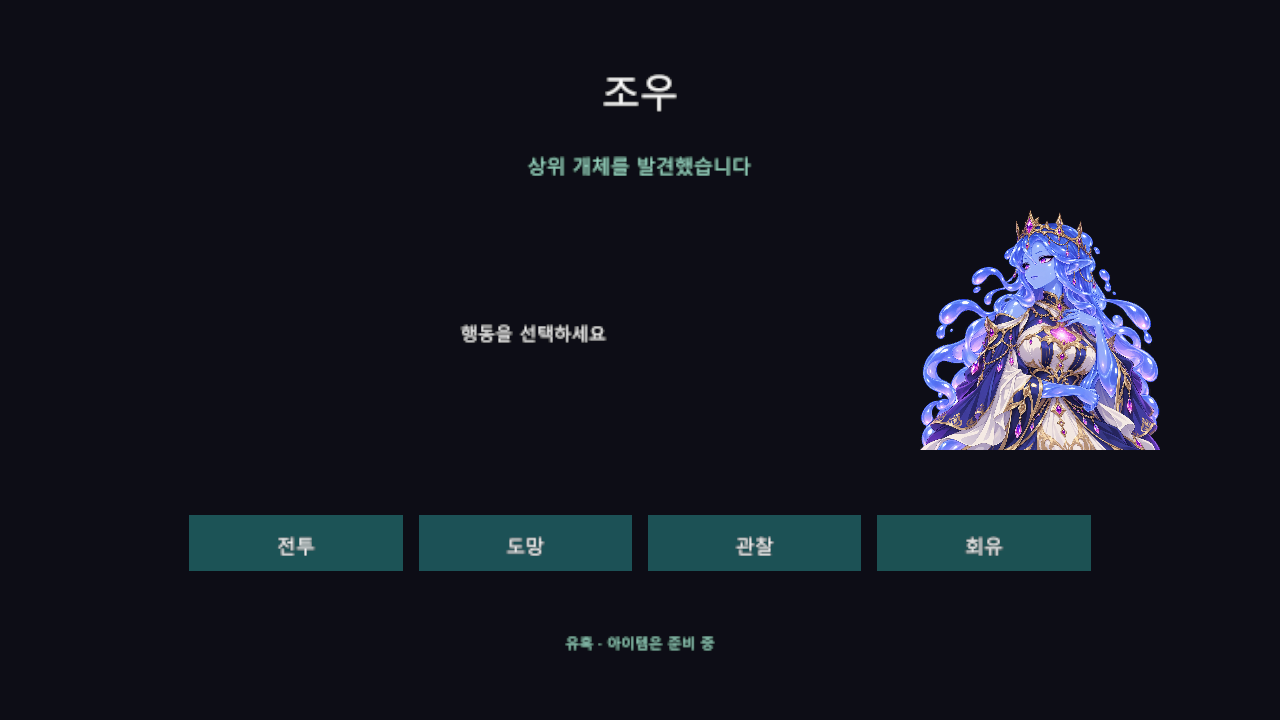
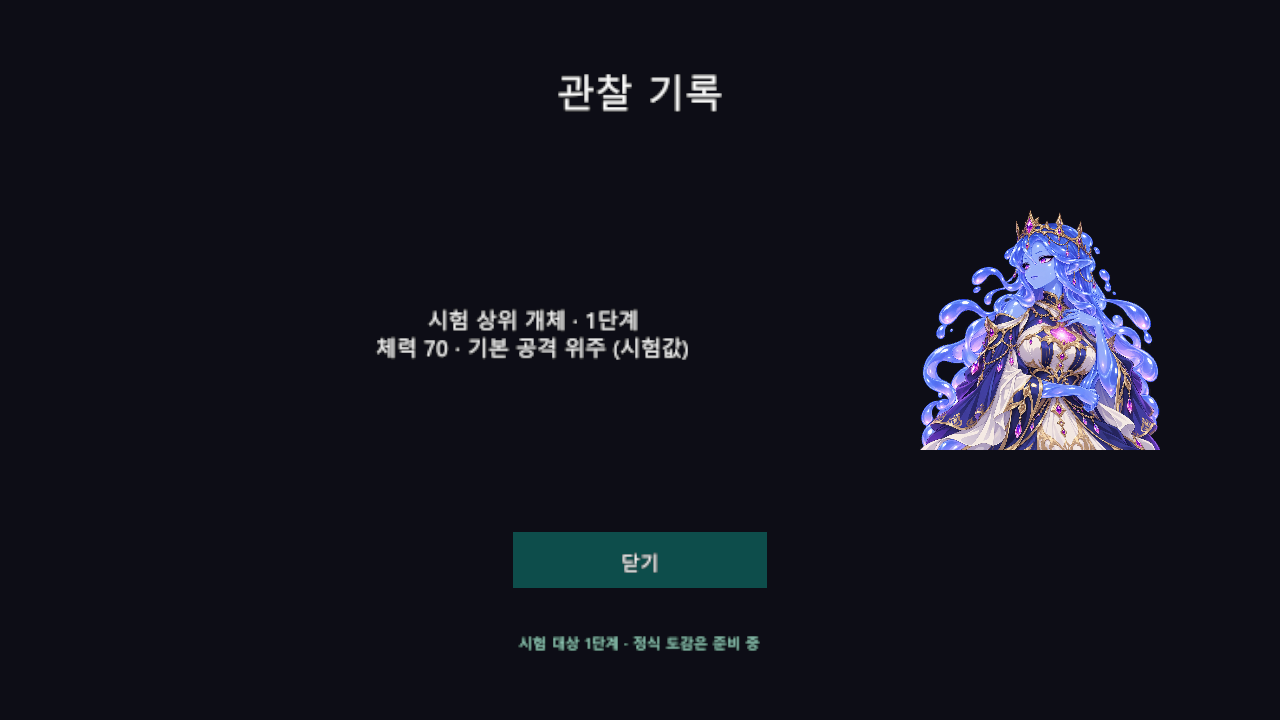
21일차 : 관찰 기록 화면 구현
- 타이틀 관찰 기록 화면 추가
- 미관찰 정보 보호 및 저장 오류 안내 추가
- 키보드와 게임패드 화면 조작 수정
- 최신 플레이 화면과 검증 기록 수정

diff --git a/Assets/ProjectDelta/Tests/PlayMode/DungeonRuntimeGenerationTests.cs b/Assets/ProjectDelta/Tests/PlayMode/DungeonRuntimeGenerationTests.cs
@@ -51,6 +51,100 @@ namespace ProjectDelta.Tests // 검증 이름 공간
             InputSystem.settings.editorInputBehaviorInPlayMode = InputSettings.EditorInputBehaviorInPlayMode.AllDeviceInputAlwaysGoesToGameView; // 게임 화면에 검증 입력 전달
 #endif // 편집기 입력 설정 끝
         } // 준비 끝
+        [UnityTest] // 타이틀 미관찰 도감과 실제 입력 검증
+        public IEnumerator Journal_Empty_OpensAndClosesWithKeyboardAndGamepad() // 미관찰 정보와 선택 복원 확인
+        { // 검증 시작
+            yield return SceneManager.LoadSceneAsync("BootstrapScene"); // 실제 시작 씬 진입
+            yield return WaitForPhase(GamePhase.Title); // 타이틀 도착 대기
+            keyboard = InputSystem.AddDevice<Keyboard>(); // 시험 키보드 연결
+            gamepad = InputSystem.AddDevice<Gamepad>(); // 시험 게임패드 연결
+            InputSystem.Update(); // 입력 장치 반영
+            yield return null; // 타이틀 화면 준비 대기
+            var journalButton = GameObject.Find("JournalButton"); // 실제 도감 버튼
+            Assert.That(journalButton, Is.Not.Null); // 도감 진입 제공 확인
+            InputSystem.QueueStateEvent(keyboard, new KeyboardState(Key.DownArrow)); // 도감 버튼으로 이동
+            yield return null; // 키 입력 처리 대기
+            InputSystem.QueueStateEvent(keyboard, new KeyboardState()); // 방향 키 해제
+            yield return null; // 선택 반영 대기
+            Assert.That(UnityEngine.EventSystems.EventSystem.current.currentSelectedGameObject, Is.SameAs(journalButton)); // 도감 버튼의 키보드 선택
+            InputSystem.QueueStateEvent(keyboard, new KeyboardState(Key.Enter)); // 실제 도감 열기
+            yield return null; // 도감 화면 준비 대기
+            InputSystem.QueueStateEvent(keyboard, new KeyboardState()); // 선택 키 해제
+            yield return null; // 선택 해제 반영 대기
+            var contents = GameObject.Find("JournalContents").GetComponent<UnityEngine.UI.Text>(); // 도감 내용
+            Assert.That(contents.text, Does.Contain("관찰 기록이 없습니다")); // 미관찰 안내
+            Assert.That(contents.text, Does.Not.Contain("체력 70")); // 미관찰 정보 비공개
+            Assert.That(GameObject.Find("JournalPortrait"), Is.Null); // 미관찰 대상 이미지 비공개
+            Assert.That(GameObject.Find("NewGameButton").GetComponent<UnityEngine.UI.Button>().interactable, Is.False); // 도감 열기 중 새 게임 차단
+            var close = GameObject.Find("CloseJournalButton"); // 실제 닫기 버튼
+            Assert.That(UnityEngine.EventSystems.EventSystem.current.currentSelectedGameObject, Is.SameAs(close)); // 닫기 버튼의 기본 선택
+            InputSystem.QueueStateEvent(keyboard, new KeyboardState(Key.Enter)); // 키보드 도감 닫기
+            yield return null; // 닫기 반영 대기
+            InputSystem.QueueStateEvent(keyboard, new KeyboardState()); // 선택 키 해제
+            yield return null; // 선택 해제 반영 대기
+            Assert.That(GameObject.Find("JournalContents"), Is.Null); // 도감 화면 닫기 확인
+            Assert.That(UnityEngine.EventSystems.EventSystem.current.currentSelectedGameObject, Is.SameAs(journalButton)); // 도감 버튼 선택 복원
+            InputSystem.QueueStateEvent(gamepad, new GamepadState().WithButton(GamepadButton.South)); // 게임패드 도감 열기
+            yield return null; // 열기 반영 대기
+            InputSystem.QueueStateEvent(gamepad, new GamepadState()); // 버튼 해제
+            yield return null; // 해제 반영 대기
+            Assert.That(GameObject.Find("JournalContents"), Is.Not.Null); // 게임패드 도감 열기 확인
+            InputSystem.QueueStateEvent(gamepad, new GamepadState().WithButton(GamepadButton.South)); // 게임패드 도감 닫기
+            yield return null; // 닫기 반영 대기
+            InputSystem.QueueStateEvent(gamepad, new GamepadState()); // 버튼 해제
+            yield return null; // 해제 반영 대기
+            Assert.That(GameObject.Find("JournalContents"), Is.Null); // 게임패드 도감 닫기 확인
+            Assert.That(UnityEngine.EventSystems.EventSystem.current.currentSelectedGameObject, Is.SameAs(journalButton)); // 게임패드 선택 복원
+        } // 검증 끝
+        [UnityTest] // 손상된 저장의 도감 경고와 원본 보호 검증
+        public IEnumerator Journal_DamagedSave_ShowsWarningWithoutChangingFile() // 저장 오류 안내와 원본 유지
+        { // 검증 시작
+            var path = ObservationStorage.TestDirectoryOverride; // 현재 시험 전용 저장 경로
+            System.IO.Directory.CreateDirectory(path); // 시험 저장 폴더 준비
+            var current = System.IO.Path.Combine(path, "observation-v1.json"); // 시험 저장 파일
+            System.IO.File.WriteAllText(current, "damaged test data"); // 손상된 시험 원본
+            yield return SceneManager.LoadSceneAsync("BootstrapScene"); // 실제 시작 씬 진입
+            yield return WaitForPhase(GamePhase.Title); // 타이틀 도착 대기
+            var journalButton = GameObject.Find("JournalButton"); // 실제 도감 버튼
+            Assert.That(journalButton, Is.Not.Null); // 도감 진입 제공 확인
+            journalButton.GetComponent<UnityEngine.UI.Button>().onClick.Invoke(); // 손상 상태의 도감 열기
+            yield return null; // 경고 표시 대기
+            var warning = GameObject.Find("JournalSaveWarning"); // 도감 저장 오류 안내
+            Assert.That(warning, Is.Not.Null); // 저장 오류 안내 제공 확인
+            Assert.That(warning.GetComponent<UnityEngine.UI.Text>().text, Does.Contain("보존")); // 원본 보존 안내 확인
+            Assert.That(GameObject.Find("JournalContents").GetComponent<UnityEngine.UI.Text>().text, Does.Not.Contain("체력 70")); // 확인되지 않은 정보 비공개
+            GameObject.Find("CloseJournalButton").GetComponent<UnityEngine.UI.Button>().onClick.Invoke(); // 도감 닫기
+            Assert.That(System.IO.File.ReadAllText(current), Is.EqualTo("damaged test data")); // 손상된 원본 그대로 보존
+        } // 검증 끝
+        [UnityTest] // 저장한 관찰 기록의 도감 표시 검증
+        public IEnumerator Journal_Observed_ReloadsAndShowsSavedInfo() // 재초기화 후 저장 정보 표시
+        { // 검증 시작
+            yield return SceneManager.LoadSceneAsync("BootstrapScene"); // 실제 시작 씬 진입
+            yield return WaitForPhase(GamePhase.Title); // 타이틀 도착 대기
+            Assert.That(AppRoot.Instance.TryRecordObservation("trial-elite"), Is.True); // 시험 대상의 관찰 기록 저장
+            var current = System.IO.Path.Combine(ObservationStorage.TestDirectoryOverride, "observation-v1.json"); // 시험 저장 파일
+            var saved = System.IO.File.ReadAllBytes(current); // 도감 열기 전 저장 내용 보관
+            Object.Destroy(AppRoot.Instance.gameObject); // 현재 공통 실행 객체 종료
+            yield return null; // 객체 종료 반영 대기
+            yield return SceneManager.LoadSceneAsync("BootstrapScene"); // 새 실행과 같은 초기화
+            yield return WaitForPhase(GamePhase.Title); // 새 타이틀 도착 대기
+            var journalButton = GameObject.Find("JournalButton"); // 실제 도감 버튼
+            Assert.That(journalButton, Is.Not.Null); // 도감 진입 제공 확인
+            journalButton.GetComponent<UnityEngine.UI.Button>().onClick.Invoke(); // 저장된 도감 열기
+            yield return null; // 도감 화면 배치 대기
+            var contents = GameObject.Find("JournalContents").GetComponent<UnityEngine.UI.Text>(); // 실제 도감 내용
+            Assert.That(contents.text, Does.Contain("체력 70")); // 저장된 시험 체력 표시
+            Assert.That(contents.text, Does.Contain("기본 공격")); // 저장된 공격 성향 표시
+            Assert.That(GameObject.Find("JournalPortrait"), Is.Not.Null); // 관찰한 시험 대상 이미지 표시
+            Assert.That(System.IO.File.ReadAllBytes(current), Is.EqualTo(saved)); // 도감 열람 시 저장 파일 변경 없음
+            var capturePath = System.Environment.GetEnvironmentVariable("PROJECT_DELTA_CAPTURE_PATH"); // 최신 화면 저장 경로
+            if (!string.IsNullOrEmpty(capturePath) && Application.isBatchMode) // 화면 없는 캡처 검사
+            { // 캡처 조건 시작
+                var image = CaptureScreen("TitleCanvas"); // 실제 관찰 도감 화면
+                System.IO.File.WriteAllBytes(capturePath, image.EncodeToPNG()); // 최신 플레이 화면 저장
+                Object.Destroy(image); // 임시 이미지 정리
+            } // 캡처 조건 끝
+        } // 검증 끝
         [UnityTest] // 실제 실행 검증 표시
         public IEnumerator GeneratedRooms_HaveUsableDoorsAndCorrectMiniMap() // 생성된 모든 방과 문 연결 검증
         { // 검증 시작
@@ -582,19 +676,20 @@ namespace ProjectDelta.Tests // 검증 이름 공간
         { // 캡처 시작
             var camera = Camera.main; // 실제 게임 카메라
             var canvas = GameObject.Find(canvasName).GetComponent<Canvas>(); // 캡처할 실제 화면
-            var dungeon = GameObject.Find("DungeonCanvas").GetComponent<Canvas>(); // 기존 탐험 화면
+            var dungeonObject = GameObject.Find("DungeonCanvas"); // 기존 탐험 화면 객체
+            var dungeon = dungeonObject == null ? null : dungeonObject.GetComponent<Canvas>(); // 선택적인 탐험 화면
             var target = new RenderTexture(1280, 720, 24, RenderTextureFormat.ARGB32); // 화면 밖 렌더링 영역
             var oldActive = RenderTexture.active; // 기존 렌더링 대상
             var oldTarget = camera.targetTexture; // 기존 카메라 대상
             var oldMode = canvas.renderMode; // 기존 화면 렌더링 방식
             var oldCamera = canvas.worldCamera; // 기존 화면 카메라
             var oldDistance = canvas.planeDistance; // 기존 화면 거리
-            var oldEnabled = dungeon.enabled; // 기존 탐험 화면 표시 상태
+            var oldEnabled = dungeon != null && dungeon.enabled; // 기존 탐험 화면 표시 상태
             try // 실제 화면 렌더링
             { // 렌더링 시작
                 target.Create(); // 별도 영역 생성
                 camera.targetTexture = target; // 별도 영역 연결
-                if (dungeon != canvas) // 다른 화면을 캡처하는지 검사
+                if (dungeon != null && dungeon != canvas) // 다른 화면을 캡처하는지 검사
                 { // 탐험 화면 가림 시작
                     dungeon.enabled = false; // 다른 화면의 탐험 안내 가림
                 } // 탐험 화면 가림 끝
@@ -614,7 +709,10 @@ namespace ProjectDelta.Tests // 검증 이름 공간
                 canvas.renderMode = oldMode; // 기존 화면 방식 복구
                 canvas.worldCamera = oldCamera; // 기존 화면 카메라 복구
                 canvas.planeDistance = oldDistance; // 기존 화면 거리 복구
-                dungeon.enabled = oldEnabled; // 탐험 화면 표시 복구
+                if (dungeon != null) // 탐험 화면 존재 검사
+                { // 탐험 화면 복구 시작
+                    dungeon.enabled = oldEnabled; // 탐험 화면 표시 복구
+                } // 탐험 화면 복구 끝
                 camera.targetTexture = oldTarget; // 기존 카메라 대상 복구
                 RenderTexture.active = oldActive; // 기존 활성 대상 복구
                 target.Release(); // 임시 렌더링 메모리 해제

diff --git a/Assets/ProjectDelta/Runtime/TitleScreenView.cs b/Assets/ProjectDelta/Runtime/TitleScreenView.cs
@@ -7,37 +7,89 @@ namespace ProjectDelta.Runtime // 실행 이름 공간
     public sealed class TitleScreenView : MonoBehaviour // 타이틀 표시 담당
     { // 클래스 시작
         private Button newGameButton; // 새 게임 버튼
+        private Button journalButton; // 관찰 기록 버튼
+        private GameObject journalPanel; // 현재 관찰 기록 화면
+        private Canvas titleCanvas; // 관찰 화면이 표시될 타이틀
         private void Start() // 타이틀 화면 구성
         { // 구성 시작
             var canvas = UiFactory.CreateCanvas("TitleCanvas"); // 타이틀 화면 생성
             canvas.transform.SetParent(transform, false); // 씬 화면 아래 배치
+            titleCanvas = canvas; // 타이틀 화면 보관
             var mint = new Color(0.62f, 0.87f, 0.79f); // 타이틀 강조 색상
             UiFactory.CreateText(canvas.transform, "Eyebrow", "PROJECT  /  DELTA", 24, new Vector2(0f, 235f), new Vector2(900f, 70f), mint); // 프로젝트 이름 표시
             UiFactory.CreateText(canvas.transform, "Title", "프로젝트 델타", 72, new Vector2(0f, 130f), new Vector2(1200f, 120f), Color.white); // 게임 제목 표시
             UiFactory.CreateText(canvas.transform, "Subtitle", "미지의 던전에서 시작되는 선택과 관계", 25, new Vector2(0f, 28f), new Vector2(1200f, 70f), new Color(0.63f, 0.69f, 0.72f)); // 게임 방향 표시
             if (AppRoot.Instance != null && !string.IsNullOrEmpty(AppRoot.Instance.ObservationSaveMessage)) // 관찰 저장 오류 또는 복구 안내 검사
             { // 저장 안내 조건 시작
-                UiFactory.CreateText(canvas.transform, "ObservationSaveWarning", AppRoot.Instance.ObservationSaveMessage, 21, new Vector2(0f, -265f), new Vector2(1500f, 100f), new Color(1f, 0.72f, 0.55f)); // 기존 저장 보호 상태 안내
+                UiFactory.CreateText(canvas.transform, "ObservationSaveWarning", AppRoot.Instance.ObservationSaveMessage, 21, new Vector2(0f, -330f), new Vector2(1500f, 100f), new Color(1f, 0.72f, 0.55f)); // 기존 저장 보호 상태 안내
             } // 저장 안내 조건 끝
             newGameButton = UiFactory.CreateButton(canvas.transform, "NewGameButton", "새 게임", new Vector2(0f, -115f)); // 새 게임 버튼 생성
             newGameButton.onClick.AddListener(OnNewGame); // 화면 요청 연결
-            UiFactory.CreateText(canvas.transform, "BuildLabel", "1일차  ·  2D 기본 실행 구조", 21, new Vector2(0f, -390f), new Vector2(1000f, 70f), mint); // 개발 범위 표시
+            journalButton = UiFactory.CreateButton(canvas.transform, "JournalButton", "관찰 기록", new Vector2(0f, -225f)); // 관찰 기록 버튼 생성
+            journalButton.onClick.AddListener(OpenJournal); // 기록 화면 열기 연결
+            UiFactory.CreateText(canvas.transform, "BuildLabel", "2D 탐험  ·  조우  ·  관찰 기록", 21, new Vector2(0f, -390f), new Vector2(1000f, 70f), mint); // 개발 범위 표시
             UiFactory.CreateText(canvas.transform, "Controls", "마우스 클릭  /  Enter  /  게임패드 선택", 20, new Vector2(0f, -450f), new Vector2(1100f, 60f), new Color(0.54f, 0.61f, 0.65f)); // 조작 안내 표시
             EventSystem.current.SetSelectedGameObject(newGameButton.gameObject); // 키보드와 게임패드 기본 포커스
         } // 구성 끝
         private void OnNewGame() // 새 게임 요청 전달
         { // 요청 시작
-            AppRoot.Instance.StartNewGame(); // 실행 흐름에 새 게임 요청
+            if (journalPanel == null && AppRoot.Instance != null) // 기록 화면과 실행 객체 검사
+            { // 새 게임 조건 시작
+                AppRoot.Instance.StartNewGame(); // 실행 흐름에 새 게임 요청
+            } // 새 게임 조건 끝
         } // 요청 끝
+        private void OpenJournal() // 읽기 전용 관찰 기록 열기
+        { // 열기 시작
+            if (journalPanel != null || AppRoot.Instance == null || AppRoot.Instance.Flow.Phase != GamePhase.Title) // 현재 타이틀과 중복 열기 검사
+            { // 열기 거절 조건 시작
+                return; // 잘못된 화면 열기 차단
+            } // 열기 거절 조건 끝
+            try // 도감 화면 준비
+            { // 화면 준비 시작
+                journalPanel = JournalScreenView.Create(titleCanvas.transform, AppRoot.Instance, CloseJournal); // 저장 기록의 읽기 전용 화면
+                newGameButton.interactable = false; // 도감 표시 중 새 게임 잠금
+                journalButton.interactable = false; // 중복 도감 열기 잠금
+            } // 화면 준비 끝
+            catch (System.Exception exception) // 화면 생성 실패 복구
+            { // 실패 복구 시작
+                Debug.LogError("Journal screen failed: " + exception.Message); // 실제 오류 기록
+                if (EventSystem.current != null) // 입력 관리자 존재 검사
+                { // 선택 복구 시작
+                    EventSystem.current.SetSelectedGameObject(journalButton.gameObject); // 도감 버튼 선택 복구
+                } // 선택 복구 끝
+            } // 실패 복구 끝
+        } // 열기 끝
+        private void CloseJournal() // 관찰 기록 닫기와 타이틀 복귀
+        { // 닫기 시작
+            if (journalPanel == null) // 도감 화면 존재 검사
+            { // 화면 없음 조건 시작
+                return; // 중복 닫기 차단
+            } // 화면 없음 조건 끝
+            journalPanel.SetActive(false); // 기록 화면 즉시 숨김
+            Destroy(journalPanel); // 기록 화면 제거
+            journalPanel = null; // 화면 참조 해제
+            newGameButton.interactable = true; // 새 게임 선택 복구
+            journalButton.interactable = true; // 관찰 기록 선택 복구
+            if (EventSystem.current != null) // 입력 관리자 존재 검사
+            { // 선택 복구 시작
+                EventSystem.current.SetSelectedGameObject(journalButton.gameObject); // 도감 버튼 선택 복구
+            } // 선택 복구 끝
+        } // 닫기 끝
         private void Update() // 전환 중 버튼 상태 동기화
         { // 동기화 시작
             if (newGameButton != null && AppRoot.Instance != null) // 화면과 실행 객체 존재 검사
             { // 동기화 조건 시작
-                newGameButton.interactable = AppRoot.Instance.Flow.Phase == GamePhase.Title; // 전환 중 잠금과 실패 후 복구
+                var canSelect = AppRoot.Instance.Flow.Phase == GamePhase.Title && journalPanel == null; // 타이틀과 도감 닫힘 상태
+                newGameButton.interactable = canSelect; // 전환 또는 도감 표시 중 잠금
+                journalButton.interactable = canSelect; // 전환 또는 도감 표시 중 중복 열기 차단
             } // 동기화 조건 끝
         } // 동기화 끝
         private void OnDestroy() // 화면 입력 연결 정리
         { // 정리 시작
+            if (journalButton != null) // 관찰 기록 버튼 존재 검사
+            { // 기록 연결 정리 시작
+                journalButton.onClick.RemoveListener(OpenJournal); // 화면 열기 연결 해제
+            } // 기록 연결 정리 끝
             if (newGameButton != null) // 버튼 존재 검사
             { // 정리 조건 시작
                 newGameButton.onClick.RemoveListener(OnNewGame); // 화면 요청 연결 해제

diff --git a/Assets/ProjectDelta/Runtime/JournalScreenView.cs b/Assets/ProjectDelta/Runtime/JournalScreenView.cs
@@ -1,0 +1,52 @@
+using System; // 닫기 요청 연결
+using UnityEngine; // 실제 도감 화면 객체
+using UnityEngine.EventSystems; // 기본 선택 버튼
+using UnityEngine.UI; // 화면 배경과 버튼
+namespace ProjectDelta.Runtime // 실행 이름 공간
+{ // 이름 공간 시작
+    public static class JournalScreenView // 타이틀 관찰 기록 화면 생성
+    { // 클래스 시작
+        public static GameObject Create(Transform parent, AppRoot owner, Action close) // 읽기 전용 관찰 화면 생성
+        { // 생성 시작
+            if (parent == null || owner == null || close == null || EventSystem.current == null) // 화면과 입력 준비 검사
+            { // 준비 실패 조건 시작
+                throw new InvalidOperationException("Journal screen requires a title and active input."); // 사용할 수 없는 화면 생성 차단
+            } // 준비 실패 조건 끝
+            var panel = new GameObject("JournalPanel", typeof(RectTransform), typeof(Image)); // 도감 화면과 배경 생성
+            try // 도감 화면 구성
+            { // 구성 시작
+                panel.transform.SetParent(parent, false); // 타이틀 화면 위에 배치
+                var rect = panel.GetComponent<RectTransform>(); // 화면 배경 영역
+                rect.anchorMin = Vector2.zero; // 화면 왼쪽 아래 기준
+                rect.anchorMax = Vector2.one; // 화면 오른쪽 위 기준
+                rect.offsetMin = Vector2.zero; // 아래쪽 여백 제거
+                rect.offsetMax = Vector2.zero; // 위쪽 여백 제거
+                panel.GetComponent<Image>().color = new Color(0.035f, 0.055f, 0.075f, 1f); // 도감 화면 배경색
+                var accent = new Color(0.62f, 0.87f, 0.79f); // 화면 강조 색상
+                UiFactory.CreateText(panel.transform, "JournalHeader", "관찰 기록", 58, new Vector2(0f, 410f), new Vector2(1000f, 90f), Color.white); // 도감 화면 제목
+                var observed = owner.Observations.Contains("trial-elite"); // 저장된 시험 대상 기록 검사
+                var content = observed ? "시험 상위 개체 · 1단계\n체력 " + CombatScreenView.TrialEnemyHealth + " · 기본 공격 위주 (시험값)" : "관찰 기록이 없습니다"; // 기록에 따른 공개 정보
+                UiFactory.CreateText(panel.transform, "JournalContents", content, 32, new Vector2(-160f, 45f), new Vector2(800f, 160f), Color.white); // 읽기 전용 관찰 정보
+                if (observed) // 관찰한 시험 대상 검사
+                { // 관찰 정보 조건 시작
+                    CombatScreenView.AddPortrait(panel.transform, "JournalPortrait", "BattlePortraits/SlimeQueenPrototype", new Vector2(600f, 45f)); // 시험 대상의 개발용 그림
+                } // 관찰 정보 조건 끝
+                if (!string.IsNullOrEmpty(owner.ObservationSaveMessage)) // 저장 오류 또는 복구 상태 검사
+                { // 저장 안내 조건 시작
+                    UiFactory.CreateText(panel.transform, "JournalSaveWarning", owner.ObservationSaveMessage, 22, new Vector2(0f, -165f), new Vector2(1400f, 110f), new Color(1f, 0.72f, 0.55f)); // 원본 보존과 저장 상태 안내
+                } // 저장 안내 조건 끝
+                UiFactory.CreateText(panel.transform, "JournalScope", "시험 대상 1단계 · 정식 도감은 준비 중", 23, new Vector2(0f, -420f), new Vector2(1400f, 60f), accent); // 현재 정보 범위 안내
+                var button = UiFactory.CreateButton(panel.transform, "CloseJournalButton", "닫기", new Vector2(0f, -300f)); // 도감 닫기 버튼
+                button.onClick.AddListener(() => close()); // 타이틀 복귀 연결
+                EventSystem.current.SetSelectedGameObject(button.gameObject); // 키보드와 게임패드 기본 선택
+                return panel; // 완성된 읽기 전용 화면 전달
+            } // 구성 끝
+            catch // 화면 구성 실패 정리
+            { // 실패 정리 시작
+                panel.SetActive(false); // 불완전한 화면 즉시 숨김
+                UnityEngine.Object.Destroy(panel); // 임시 화면 제거
+                throw; // 기존 오류 전달
+            } // 실패 정리 끝
+        } // 생성 끝
+    } // 클래스 끝
+} // 이름 공간 끝

diff --git a/Assets/ProjectDelta/Editor/DayTwentyOneProjectSetup.cs b/Assets/ProjectDelta/Editor/DayTwentyOneProjectSetup.cs
@@ -1,0 +1,12 @@
+using UnityEditor; // 편집기 메뉴
+namespace ProjectDelta.Editor // 제작 도구 이름 공간
+{ // 이름 공간 시작
+    public static class DayTwentyOneProjectSetup // 21일차 Windows 빌드
+    { // 클래스 시작
+        [MenuItem("Project Delta/21일차/Windows 빌드")] // 편집기 빌드 메뉴
+        public static void BuildWindows() // 21일차 실행 파일 빌드
+        { // 빌드 시작
+            DayOneProjectSetup.BuildWindowsAt("Builds/Day21"); // 기존 빌드와 분리된 출력 경로
+        } // 빌드 끝
+    } // 클래스 끝
+} // 이름 공간 끝

diff --git a/README.md b/README.md
@@ -22,7 +22,7 @@
 
 Unity Hub에서 저장소 폴더를 프로젝트로 추가하고 `Assets/ProjectDelta/Scenes/BootstrapScene.unity`를 열어 Play를 실행한다.
 
-타이틀에서 새 게임을 선택하면 던전에 진입한다. 던전에서 WASD·방향키·게임패드 방향 입력으로 한 칸씩 이동하고, Esc 또는 게임패드의 취소 버튼으로 타이틀에 복귀한다. 흰 화살표는 바라보는 방향, 붉은 칸은 장애물, 노란 화살표는 문이다. 문 앞에서 문 방향으로 마지막 이동을 마친 뒤 E 또는 게임패드의 남쪽 버튼을 누르면 다른 방으로 이동한다. 도착 직후 돌아가려면 방 안쪽으로 한 칸 이동한 뒤 문 쪽으로 돌아와 상호작용한다. 계단 방 중앙의 파란 화살표에 서서 E 또는 게임패드 남쪽 버튼을 누르면 다음 층으로 이동한다. 상위 개체 방에서 분홍 대상 주변 한 칸에 이동을 마치면 조우 화면이 열리고, 전투를 선택하면 시험 전투가 시작된다. 조우 화면에서 도망에 성공하면 이전 방으로 돌아가며 대상은 남는다. 조우 도망 실패나 동점은 전투로 이어진다. 회유에 성공하면 시험 조우를 보상 없이 평화적으로 끝내며 실패하면 전투로 이어진다. 매력과 저항은 시험 수치다. 관찰에 성공하면 시험 상대의 체력과 공격 성향을 확인할 수 있다. 관찰 기록은 2D 전용 저장 파일에 보관되어 새 게임과 재시작 이후에도 유지된다. 정식 도감과 대상별 회유 결과·유혹·아이템 선택은 후속 작업이다. 전투에서 기본 공격 또는 방어를 사용하면 적도 기본 공격으로 대응한다. 방어는 행동을 소모해 다음 자신의 차례까지 직접 피해를 줄인다. 도주 성공률은 기존 임시 공식인 50% + 플레이어 속도 - 살아 있는 상대의 평균 속도이며 5~95%로 제한된다. 도주에 성공하면 보상 없이 조우를 끝내고, 실패하면 행동을 소모해 적의 차례가 진행된다. 승리하면 해당 조우가 완료되고 기존 방으로 복귀한다. 패배하면 타이틀로 돌아간다. 전투 후 체력은 유지되며 층 이동에 성공하면 회복된다. 탐험 중 I 또는 게임패드 북쪽 버튼으로 인벤토리를 열고 닫는다. 보라색 화살표는 시험용 잠긴 문이며, 인벤토리에서 지급한 시험 열쇠 하나를 사용해 양방향으로 열 수 있다. 잠긴 문 앞에서 F 또는 게임패드 서쪽 버튼으로 공격력 판정을 통한 강제 개방을 한 번 시도할 수도 있다. 실패 후에도 열쇠로 열 수 있다. 현재 판정의 공격력 50과 문 난이도 50은 시험값이다.
+타이틀에서 새 게임을 선택하면 던전에 진입하고, 관찰 기록을 선택하면 저장된 시험 대상의 정보를 확인할 수 있다. 던전에서 WASD·방향키·게임패드 방향 입력으로 한 칸씩 이동하고, Esc 또는 게임패드의 취소 버튼으로 타이틀에 복귀한다. 흰 화살표는 바라보는 방향, 붉은 칸은 장애물, 노란 화살표는 문이다. 문 앞에서 문 방향으로 마지막 이동을 마친 뒤 E 또는 게임패드의 남쪽 버튼을 누르면 다른 방으로 이동한다. 도착 직후 돌아가려면 방 안쪽으로 한 칸 이동한 뒤 문 쪽으로 돌아와 상호작용한다. 계단 방 중앙의 파란 화살표에 서서 E 또는 게임패드 남쪽 버튼을 누르면 다음 층으로 이동한다. 상위 개체 방에서 분홍 대상 주변 한 칸에 이동을 마치면 조우 화면이 열리고, 전투를 선택하면 시험 전투가 시작된다. 조우 화면에서 도망에 성공하면 이전 방으로 돌아가며 대상은 남는다. 조우 도망 실패나 동점은 전투로 이어진다. 회유에 성공하면 시험 조우를 보상 없이 평화적으로 끝내며 실패하면 전투로 이어진다. 매력과 저항은 시험 수치다. 관찰에 성공하면 시험 상대의 체력과 공격 성향을 확인할 수 있다. 관찰 기록은 2D 전용 저장 파일에 보관되어 새 게임과 재시작 이후에도 유지된다. 정식 도감 목록과 대상별 회유 결과·유혹·아이템 선택은 후속 작업이다. 전투에서 기본 공격 또는 방어를 사용하면 적도 기본 공격으로 대응한다. 방어는 행동을 소모해 다음 자신의 차례까지 직접 피해를 줄인다. 도주 성공률은 기존 임시 공식인 50% + 플레이어 속도 - 살아 있는 상대의 평균 속도이며 5~95%로 제한된다. 도주에 성공하면 보상 없이 조우를 끝내고, 실패하면 행동을 소모해 적의 차례가 진행된다. 승리하면 해당 조우가 완료되고 기존 방으로 복귀한다. 패배하면 타이틀로 돌아간다. 전투 후 체력은 유지되며 층 이동에 성공하면 회복된다. 탐험 중 I 또는 게임패드 북쪽 버튼으로 인벤토리를 열고 닫는다. 보라색 화살표는 시험용 잠긴 문이며, 인벤토리에서 지급한 시험 열쇠 하나를 사용해 양방향으로 열 수 있다. 잠긴 문 앞에서 F 또는 게임패드 서쪽 버튼으로 공격력 판정을 통한 강제 개방을 한 번 시도할 수도 있다. 실패 후에도 열쇠로 열 수 있다. 현재 판정의 공격력 50과 문 난이도 50은 시험값이다.
 
 오른쪽 위 미니맵은 현재 방과 방향을 초록색으로, 방문한 방을 밝은색으로 표시한다. 연결만 확인한 미방문 방은 어두운 윤곽으로 나타나며, 아직 확인하지 못한 방과 비밀 통로는 숨긴다. 새 게임을 시작하면 방문 기록이 초기화된다.
 
@@ -42,7 +42,7 @@ Unity Hub에서 저장소 폴더를 프로젝트로 추가하고 `Assets/Project
 ---
 ## 검증과 빌드
 
-PowerShell에서 `Tools/Run-DayTwentyChecks.ps1 -Check EditMode`, `-Check PlayMode`, `-Check Build`로 실행한다. 편집기 경로가 다르면 `-UnityPath`로 지정한다. 플레이 화면을 창을 띄우지 않고 캡처하려면 `-Check Screenshot`을 사용한다. Windows 테스트 실행 파일 검증은 `-Check PlayerTests`를 사용한다. 원본 프로젝트가 Unity에서 열려 있으면 별도 프로젝트 복사본에서 테스트한다.
+PowerShell에서 `Tools/Run-DayTwentyOneChecks.ps1 -Check EditMode`, `-Check PlayMode`, `-Check Build`로 실행한다. 편집기 경로가 다르면 `-UnityPath`로 지정한다. 플레이 화면을 창을 띄우지 않고 캡처하려면 `-Check Screenshot`을 사용한다. Windows 테스트 실행 파일 검증은 `-Check PlayerTests`를 사용한다. 원본 프로젝트가 Unity에서 열려 있으면 별도 프로젝트 복사본에서 테스트한다.
 
 기본 씬 재생성은 Unity 메뉴 `Project Delta/1일차/기본 씬 재생성`으로 실행한다. 생성기는 해당 기본 씬 세 개를 덮어쓰므로 씬 편집 후에는 변경을 먼저 보존한다.
 
@@ -52,4 +52,4 @@ PowerShell에서 `Tools/Run-DayTwentyChecks.ps1 -Check EditMode`, `-Check PlayMo
 
 세 번째 방과 지도를 구성하는 메뉴는 `Project Delta/4일차/시험 방과 지도 구성`이다. 기존 방·문 설정이 시험 구성과 다르거나 새 출구 칸이 점유되어 있으면 구성을 중단한다.
 
-검증 기록은 `Artifacts`, 20일차 Windows 빌드는 `Builds/Day20`에 생성되며 Git에서 제외한다. 기존 빌드도 각 일차의 경로에 남는다.
+검증 기록은 `Artifacts`, 21일차 Windows 빌드는 `Builds/Day21`에 생성되며 Git에서 제외한다. 기존 빌드도 각 일차의 경로에 남는다.

diff --git a/docs/development/day-021.md b/docs/development/day-021.md
@@ -1,0 +1,24 @@
+---
+# 21일차: 관찰 기록 화면
+
+---
+## 구현 내용
+
+- 타이틀에서 저장된 시험 대상의 관찰 기록을 확인하는 읽기 전용 화면 추가.
+- 미관찰 상태에서는 상세 정보와 이미지를 숨기고, 관찰된 대상만 체력과 공격 성향 표시.
+- 키보드와 게임패드로 열고 닫으며 닫은 뒤 타이틀 버튼 선택 복원.
+- 저장 손상·복구 경고를 표시하고 도감 열람 중 저장 파일 유지.
+
+---
+## 범위
+
+현재 도감은 시험 대상의 1단계 정보만 표시한다. 대상 발견 기록, 정식 도감 목록과 다단계 관찰 정보는 후속 작업이다. 그림과 능력치는 개발용 시안과 시험값이다.
+
+---
+## 검증 결과
+
+- 별도 Unity 프로젝트에서 EditMode 테스트 131개와 PlayMode 테스트 69개 통과.
+- 미관찰 정보 보호, 저장 기록의 재초기화 후 표시와 읽기 전용 동작 검증.
+- 손상 저장 경고와 원본 보존, 키보드·게임패드 화면 열기와 닫기 검증.
+- 실제 도감 화면 캡처 테스트 통과와 Windows 빌드 성공.
+- 사용자 화면을 보호하기 위해 Windows 실행 파일 테스트는 실행하지 않음.

diff --git a/docs/superpowers/specs/2026-10-28-day21-journal-view-design.md b/docs/superpowers/specs/2026-10-28-day21-journal-view-design.md
@@ -1,0 +1,16 @@
+---
+# 21일차 관찰 도감 화면 설계
+
+---
+## 범위
+
+- 타이틀에 관찰 기록 버튼을 추가하고 별도의 읽기 전용 도감 화면을 연다.
+- 저장된 시험 대상만 1단계 체력과 공격 성향 및 개발용 초상화를 표시한다. 기록이 없으면 미관찰 안내만 표시한다.
+- 관찰 기록을 읽는 화면은 저장 파일을 수정하지 않는다. 기존 저장 오류 안내를 도감에도 표시한다.
+- 화면이 열린 동안 타이틀의 새 게임 버튼을 잠그고 닫으면 기존 도감 버튼의 키보드·게임패드 선택을 복원한다.
+- 정식 도감 목록과 다단계 관찰, 대상 발견 기록은 후속 작업이다.
+
+---
+## 검증
+
+미관찰 상태, 기록된 대상 표시, 재실행 후 읽기, 저장 오류 안내, 키보드·게임패드 열기와 닫기 및 기존 타이틀 흐름을 검증한다.

diff --git a/docs/superpowers/plans/2026-10-28-day21-journal-view.md b/docs/superpowers/plans/2026-10-28-day21-journal-view.md
@@ -1,0 +1,10 @@
+---
+# 21일차 구현 계획
+
+---
+## 순서
+
+1. 타이틀에서 미관찰·관찰 기록 확인과 입력 복원 테스트 작성.
+2. 기존 저장을 변경하지 않는 읽기 전용 관찰 화면 연결.
+3. 재초기화, 저장 경고와 전체 화면 입력 회귀 검증.
+4. 최신 도감 화면 캡처와 Windows 빌드 후 커밋·푸시.
